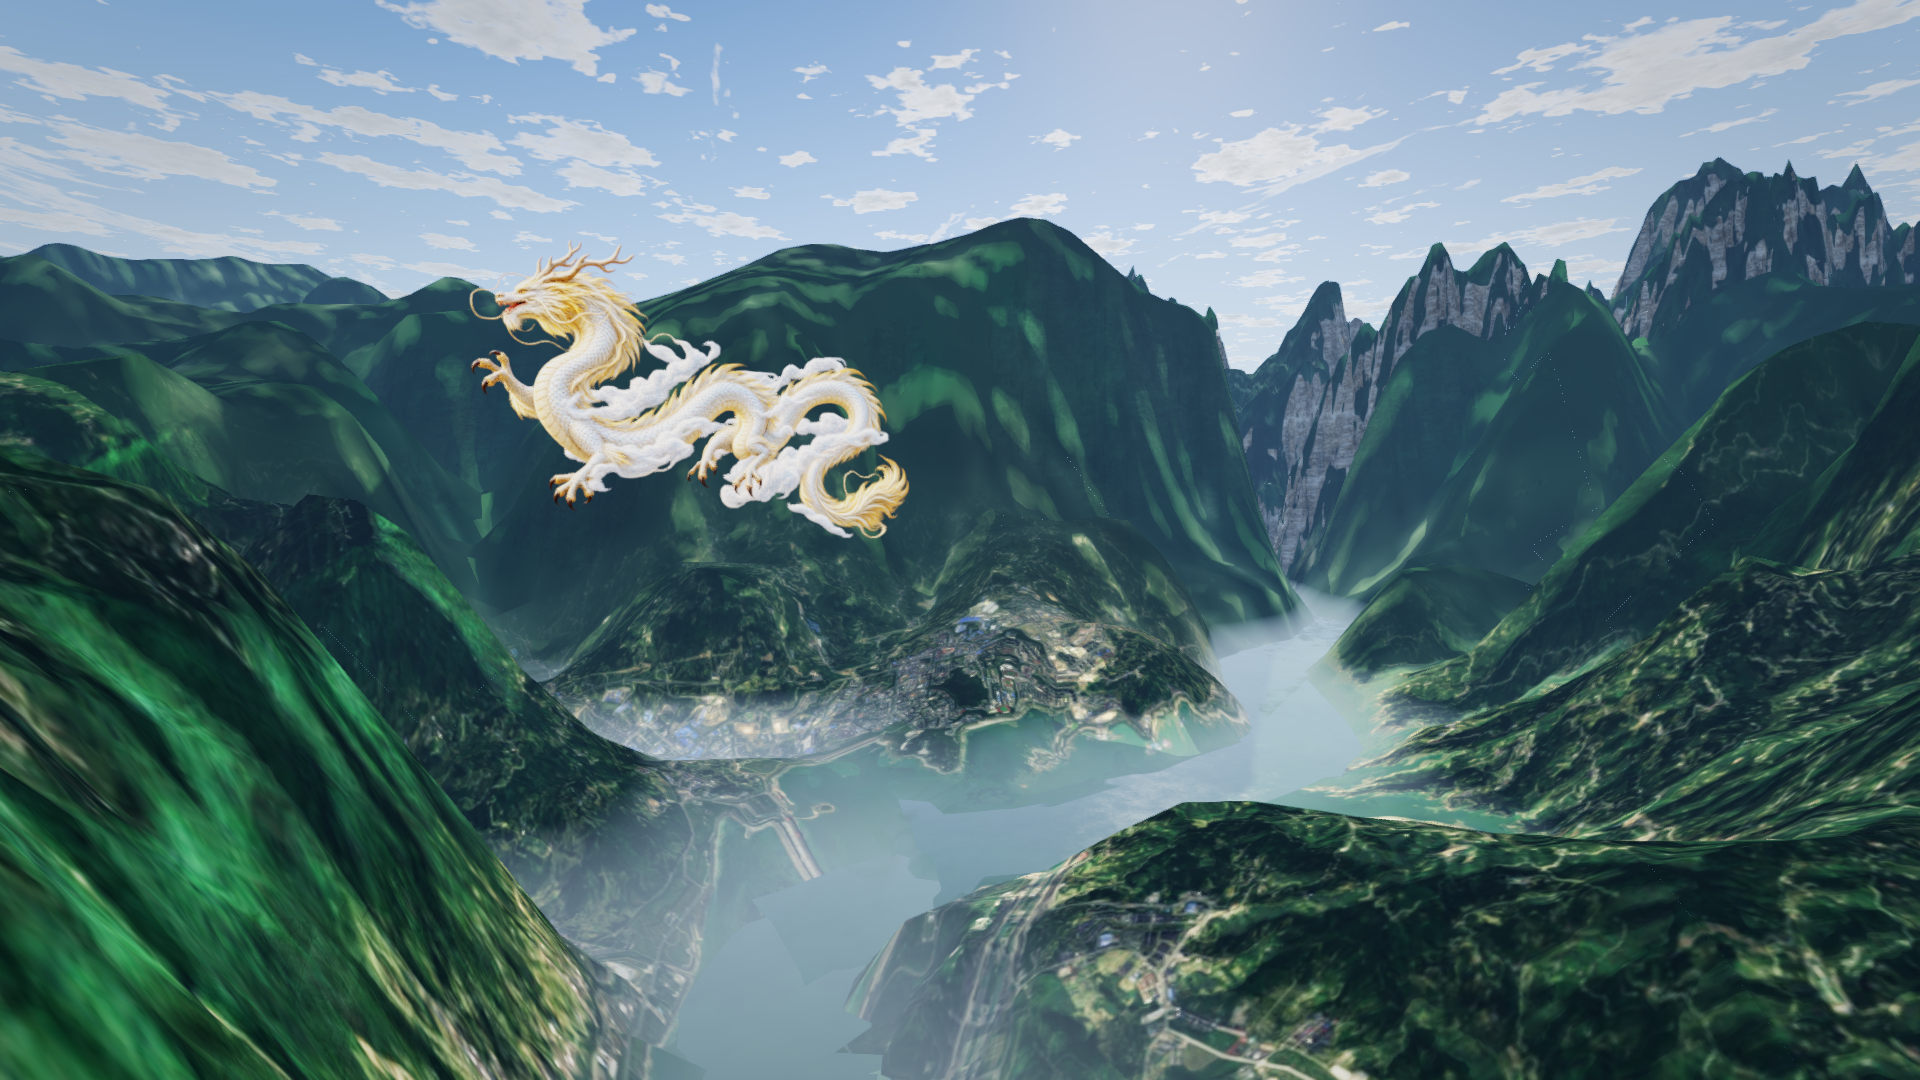
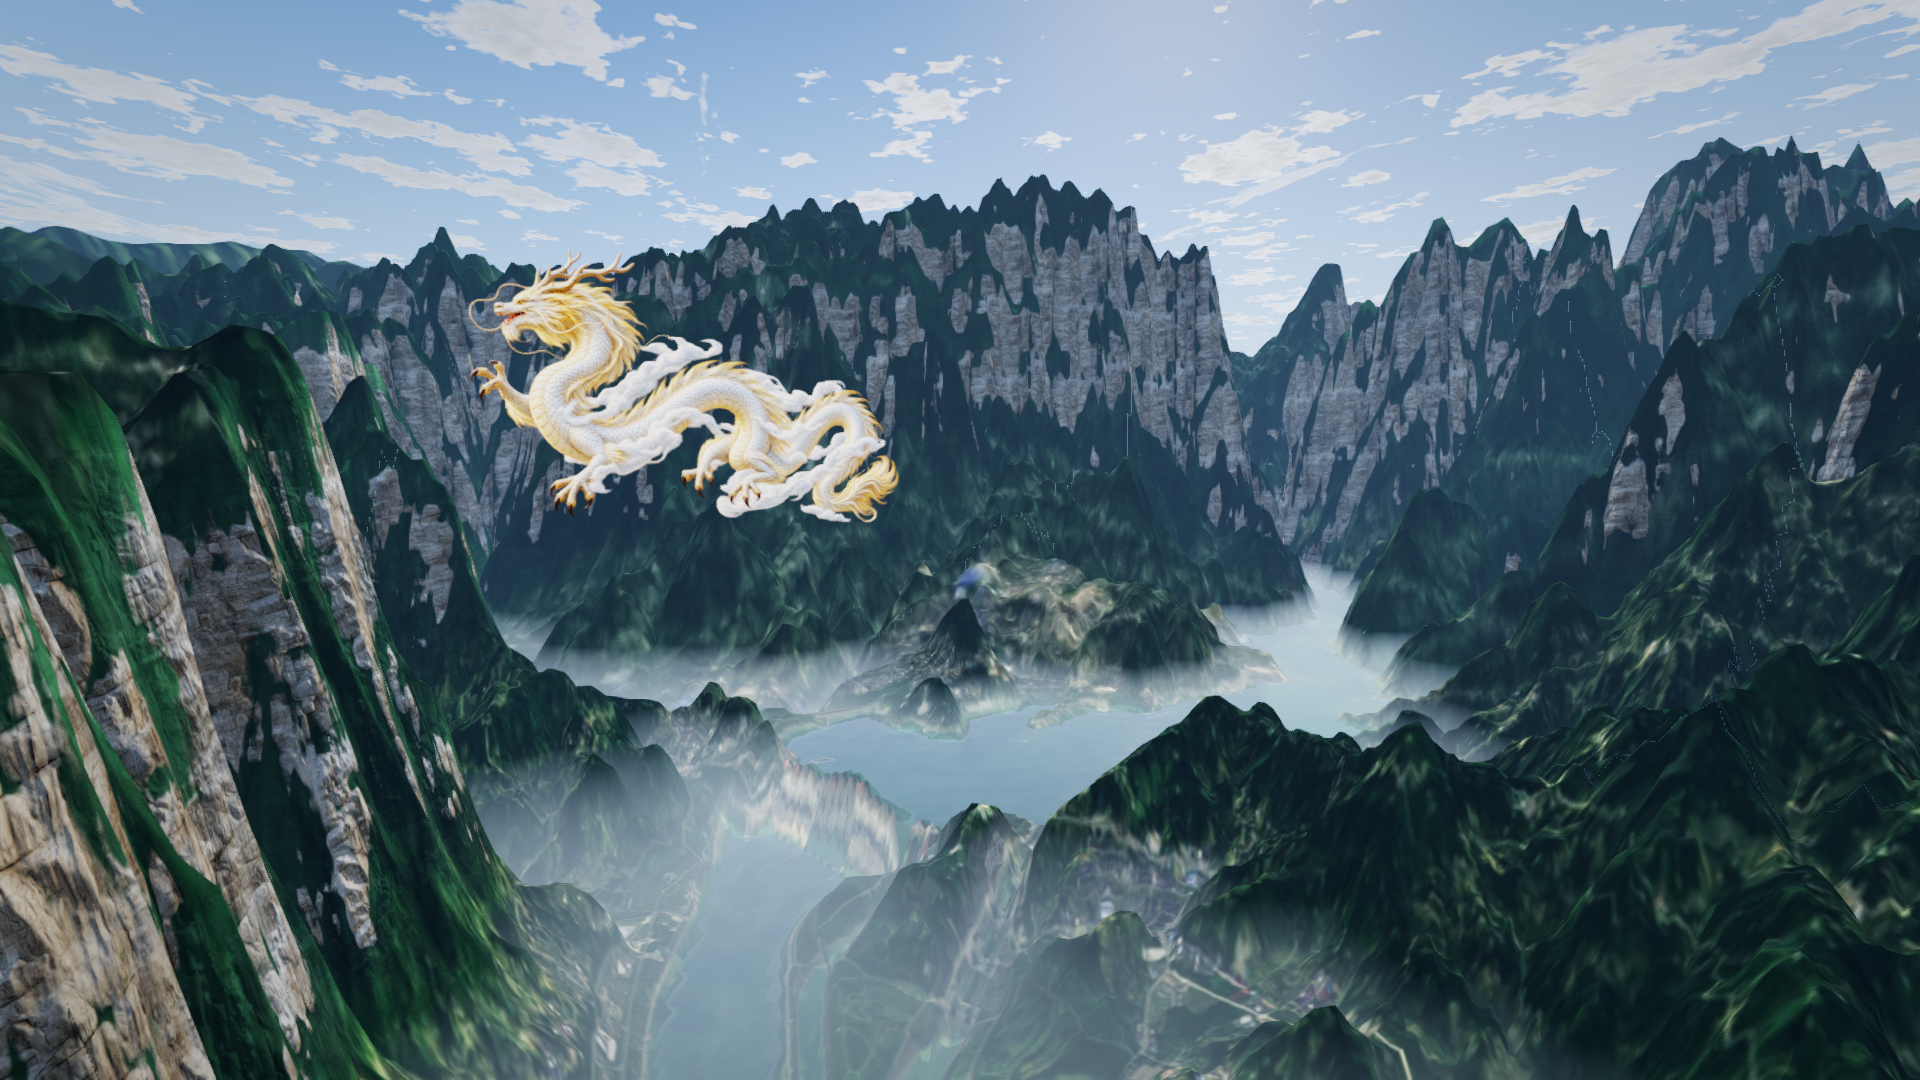
F132: the Three Gorges' Yichang ground coloured from all 200 passes
The new part's Sentinel-2 median is built from all its passes, and
nothing of the grown area is filled. Where the old and new composites
overlap they differ by a median 1-1.7 levels, blended over 1.5 km; no
seam where the rail crosses the old edge. Three Gorges pack 114.5 MB.

The Gorges cover card and still 02 retaken for sign-off; the cover sheet
is drawn again with F138.

diff --git a/docs/findings.md b/docs/findings.md
@@ -4755,16 +4755,24 @@ grid (the old box cut alone is identical).
 
 **Seen.** Headless at 1280 by 720, held at 3, 12, 22, 34 and 45 s: to
 22 s the gorge now has the hero grid's ridges and rock walls, the reservoir
-level behind the dam; 34 and 45 s as before. Three Gorges pack 106.4 to
-111.5 MB; the film 1,075.5 MB of 2,000.
+level behind the dam; 34 and 45 s as before. The Yichang part is built from
+all 200 of its passes (4.2 GB at 1 MB/s; twelve read again after the
+network failed them), and nothing of the area is filled. Where the two
+parts overlap, a tile column wide, their toned medians differ by a median
+1 to 1.7 levels a channel, blended over the 1.5 km: at 27, 30 and 33 s,
+where the rail crosses the old edge, no seam shows. Three Gorges pack
+106.4 to 114.5 MB; the film 1,078.5 MB of 2,000.
 
-**Left.** The Yichang part's colour is built from the first 51 of its 200
-passes; the rest are coming at 1 MB/s. Until they are in, its three
-eastern columns are filled from round them, flat green where the camera
-starts. Then: build, cut, `make scenes`, the Gorges cover card (18 s) and
-still 02 retaken for sign-off (D77). A test bound moved: a quarter of a
-rail's near sub-tiles may lie under its hero area, now a third (23 of the
-Gorges' 78). Frame cost not measured.
+The Gorges cover card (18 s) retaken: the White Dragon whole over the
+gorge, clear of the caption; the sheet is drawn again with F138's Loess
+card. Still 02 (60 s, the old ground) retaken: 7.5 % of its ground pixels
+moved by more than 8 levels (two takes of one build differ by 0.75 %), as
+fine shading along the slopes, the old tiles' relief cut again over the
+larger grid. Both need signing off (D77).
+
+**Left.** A test bound moved: a quarter of a rail's near sub-tiles may lie
+under its hero area, now a third (23 of the Gorges' 78). Frame cost not
+measured.
 
 ## F133 — The four Dragon Kings together for their line, and no king timed behind a mountain, 29 September 2026
 
